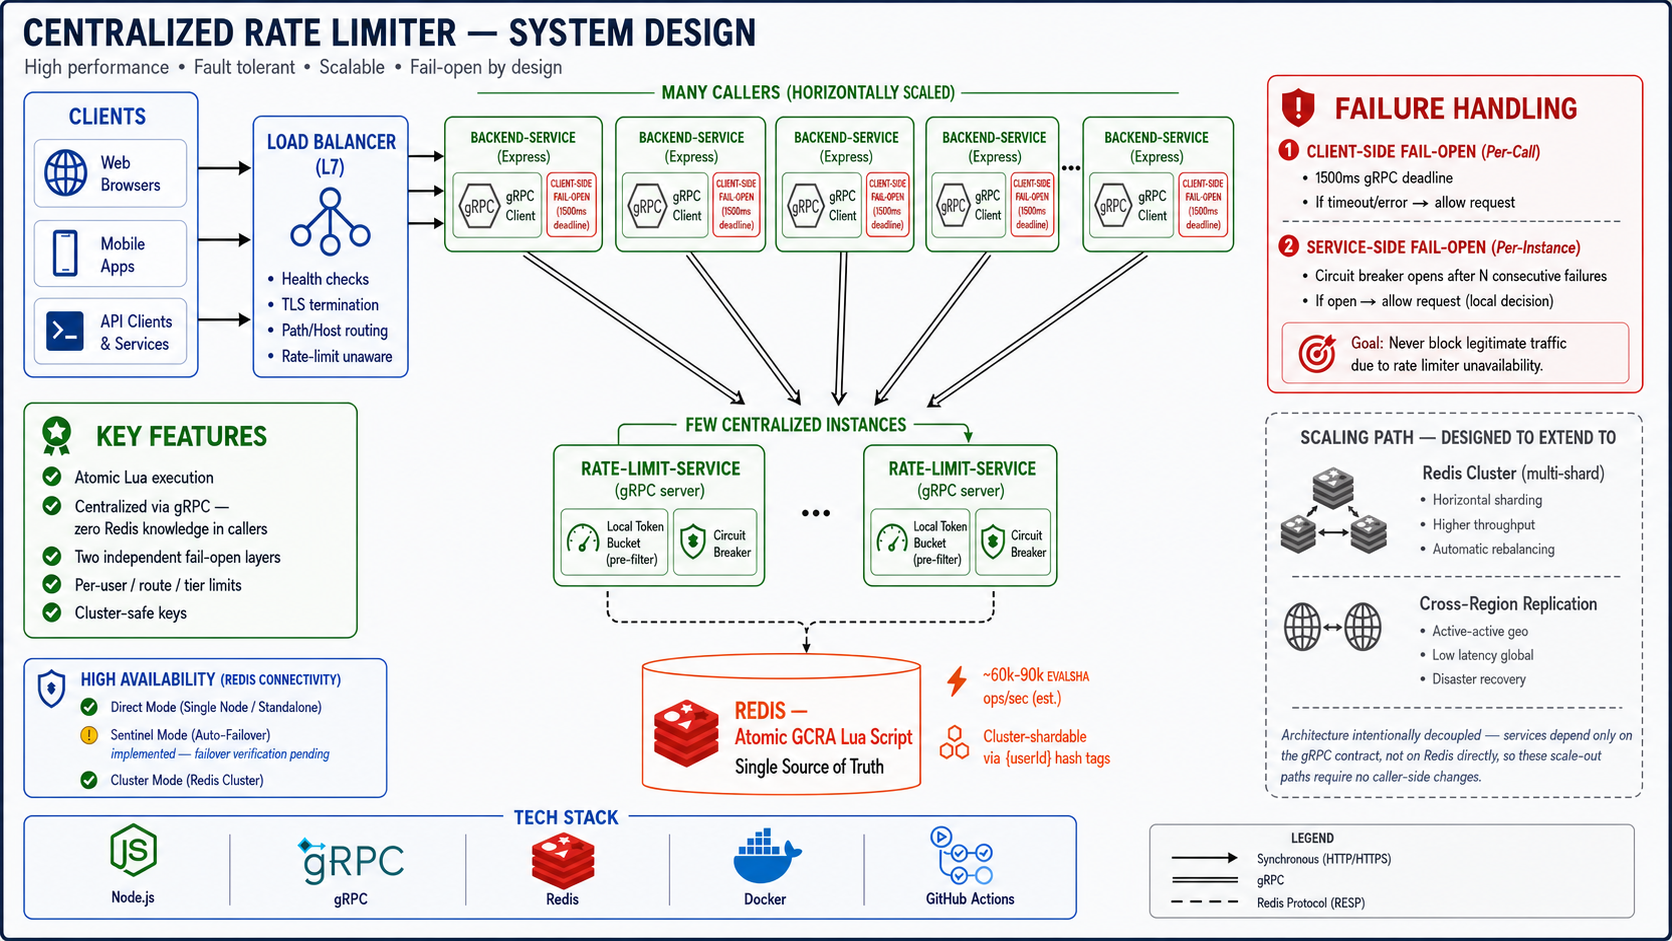
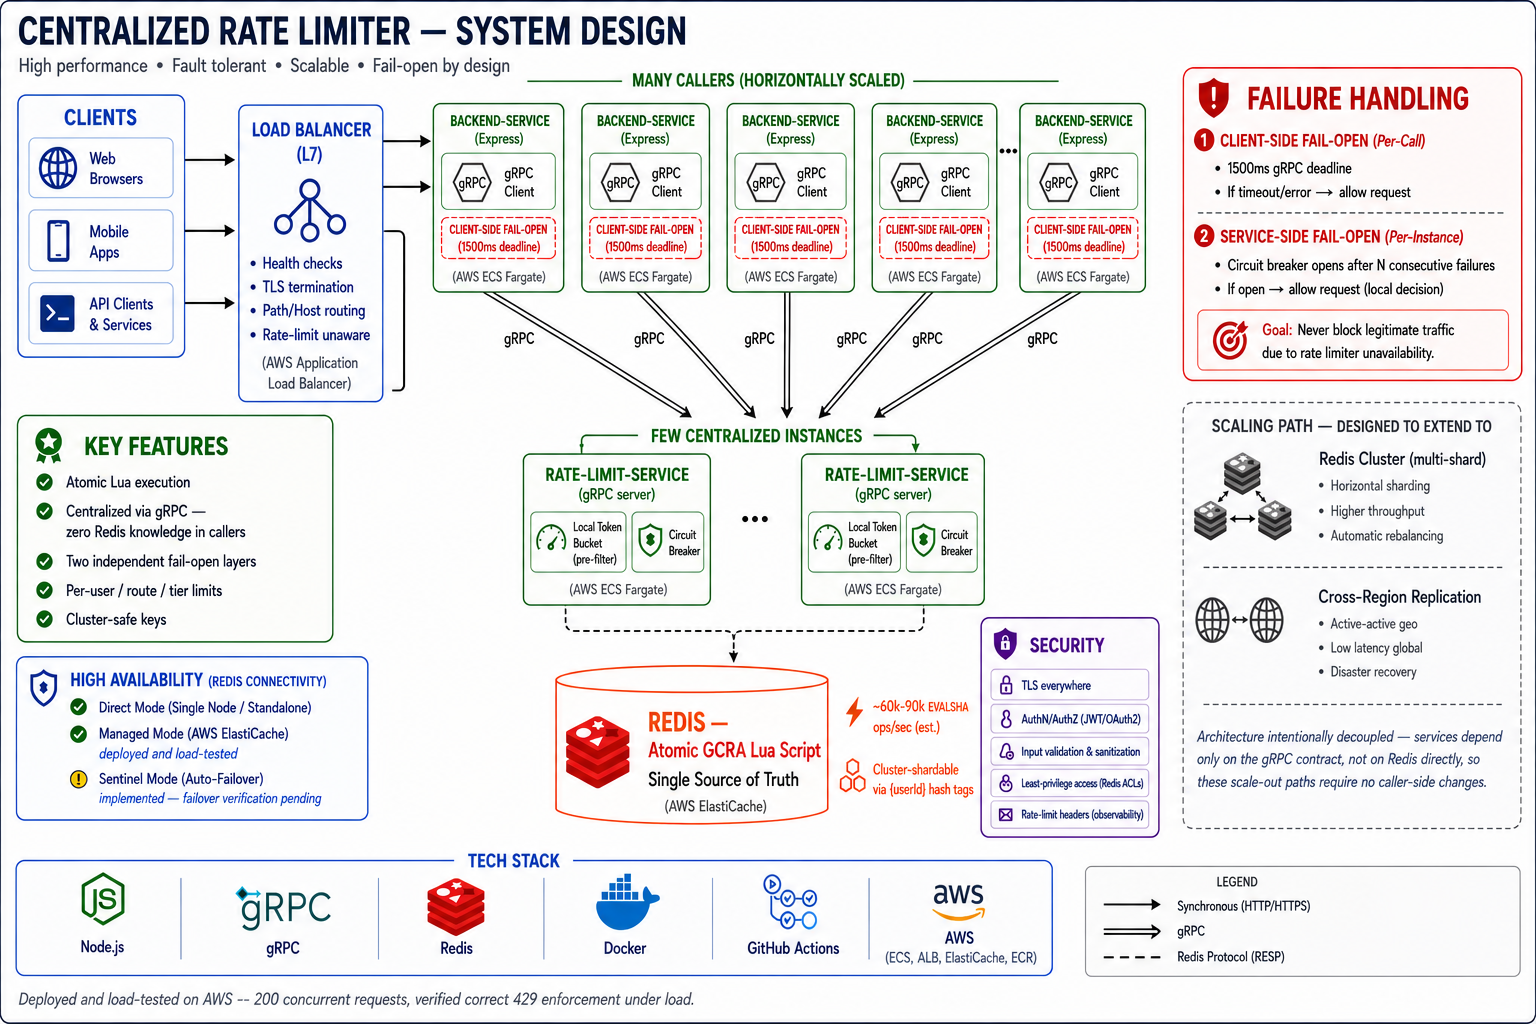
final ci-cd deployment testinng

Changed region(s): [[0.0, 0.0, 1.0, 1.0], [0.9688, 0.0, 1.0, 0.0308], [0.375, 0.339, 0.4062, 0.3698]]

diff --git a/Readme.md b/Readme.md
@@ -196,10 +196,33 @@ rate-limiter/
 └── .github/workflows/ci.yml
 ```
 
-## Honest limitations & what's next
+## Verified on real AWS infrastructure
 
-- **gRPC path not load-tested** — correctness-verified end to end, throughput not yet measured.
-- **Sentinel HA path not verified against a real failover** — code exists, hasn't been exercised against an actual dying primary yet.
+This isn't just a local demo — the full stack has been deployed and load-tested on real AWS infrastructure, end to end.
+
+**Deployment topology:**
+- Custom VPC, public + private subnets, security groups scoped per-component (only `backend-service` can reach `rate-limit-service`; only `rate-limit-service` can reach Redis)
+- Both services running on **ECS Fargate**, internally connected via **ECS Service Connect** (internal DNS + gRPC, no hardcoded IPs)
+- **ElastiCache (Redis OSS)** as the managed data store, in a private subnet
+- **Application Load Balancer** as the public entry point, with a dedicated unauthenticated `/health` route so health checks never consume rate-limit budget
+- **CI/CD via GitHub Actions using OIDC** — no long-lived AWS credentials stored anywhere; short-lived tokens issued per run, scoped to this repo only
+- Images built and pushed to **ECR** on every push to `main`
+
+**Real load test result, 200 concurrent requests against the live ALB:**
+```
+seq 1 200 | xargs -P200 -I{} \
+  curl -s -o /dev/null -w "%{http_code}\n" \
+  -X POST http://<alb-dns-name>/user | sort | uniq -c
+
+     21 200
+    179 429
+```
+21 requests allowed, 179 correctly rejected with `429` — GCRA enforcing the configured limit accurately under real concurrent load, through the full chain: ALB → `backend-service` (Fargate) → gRPC → `rate-limit-service` (Fargate) → atomic Lua script → ElastiCache. Every layer described in the architecture diagram above is exercised by this result, not simulated.
+
+
+
+- ~~gRPC path not load-tested~~ — **now verified**: 200 concurrent requests against live AWS infrastructure, correct 21/179 allow/deny split under real load (see above).
+- **Sentinel HA path not verified against a real failover** — code exists, hasn't been exercised against an actual dying primary yet. (ElastiCache's own managed failover, which is what's actually deployed, is a separate, already-real mechanism — this note applies only to the self-hosted Sentinel code path.)
 - **Redis Cluster (sharding)** — not yet implemented; the `{userId}` hash-tag key scheme is ready for it, but multi-shard operation is untested.
 - **Cross-region deployment** — no strategy implemented yet; would require an explicit consistency/latency tradeoff decision, not a drop-in change.
 - **No automated test suite** — verification so far is manual burst testing + CI smoke tests + the gRPC round-trip tests done during development. Real unit/integration tests would meaningfully strengthen this.